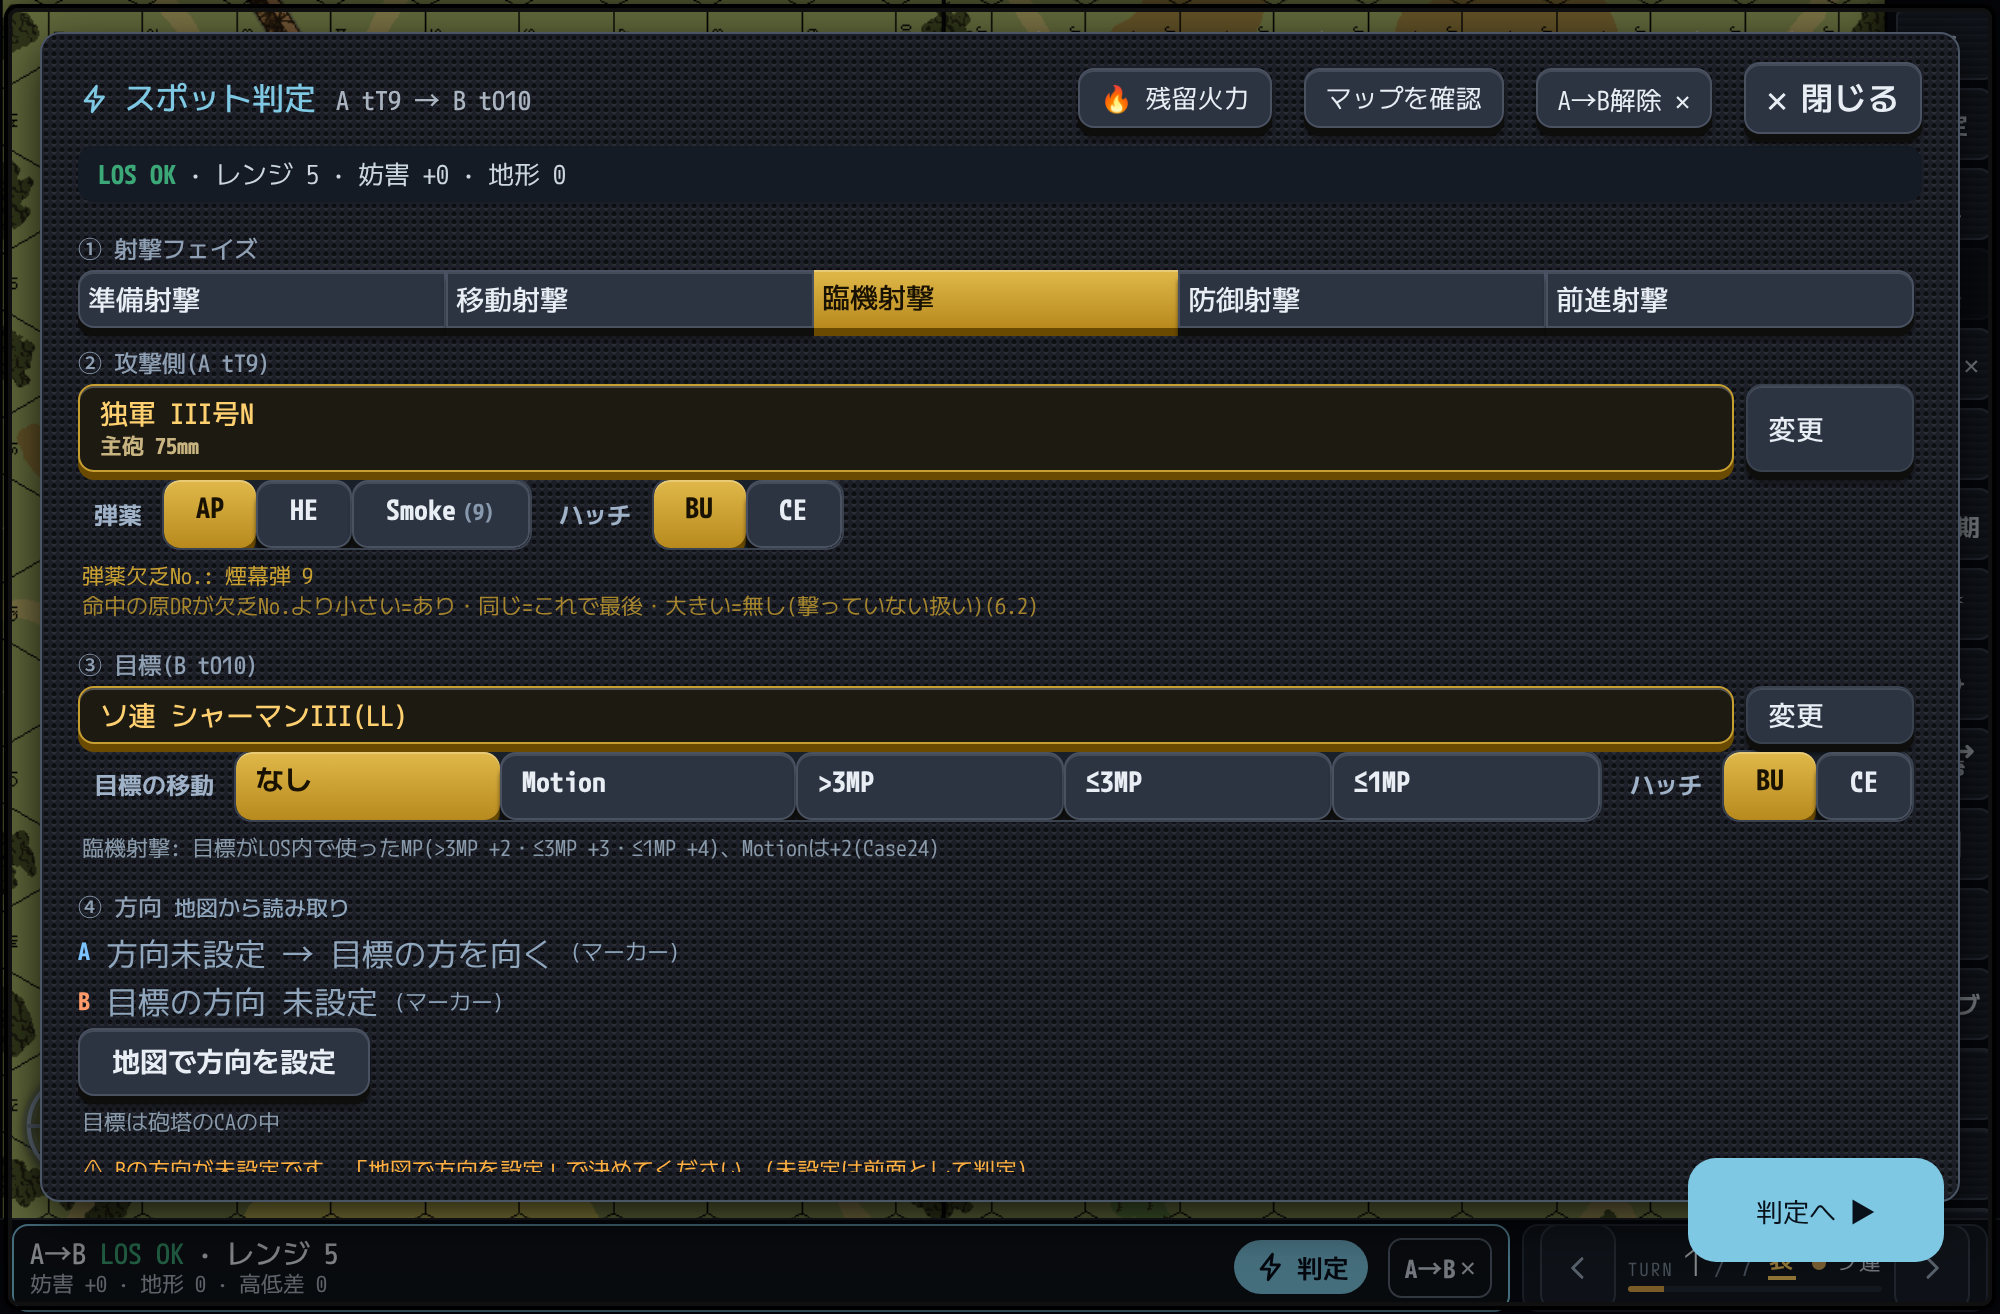
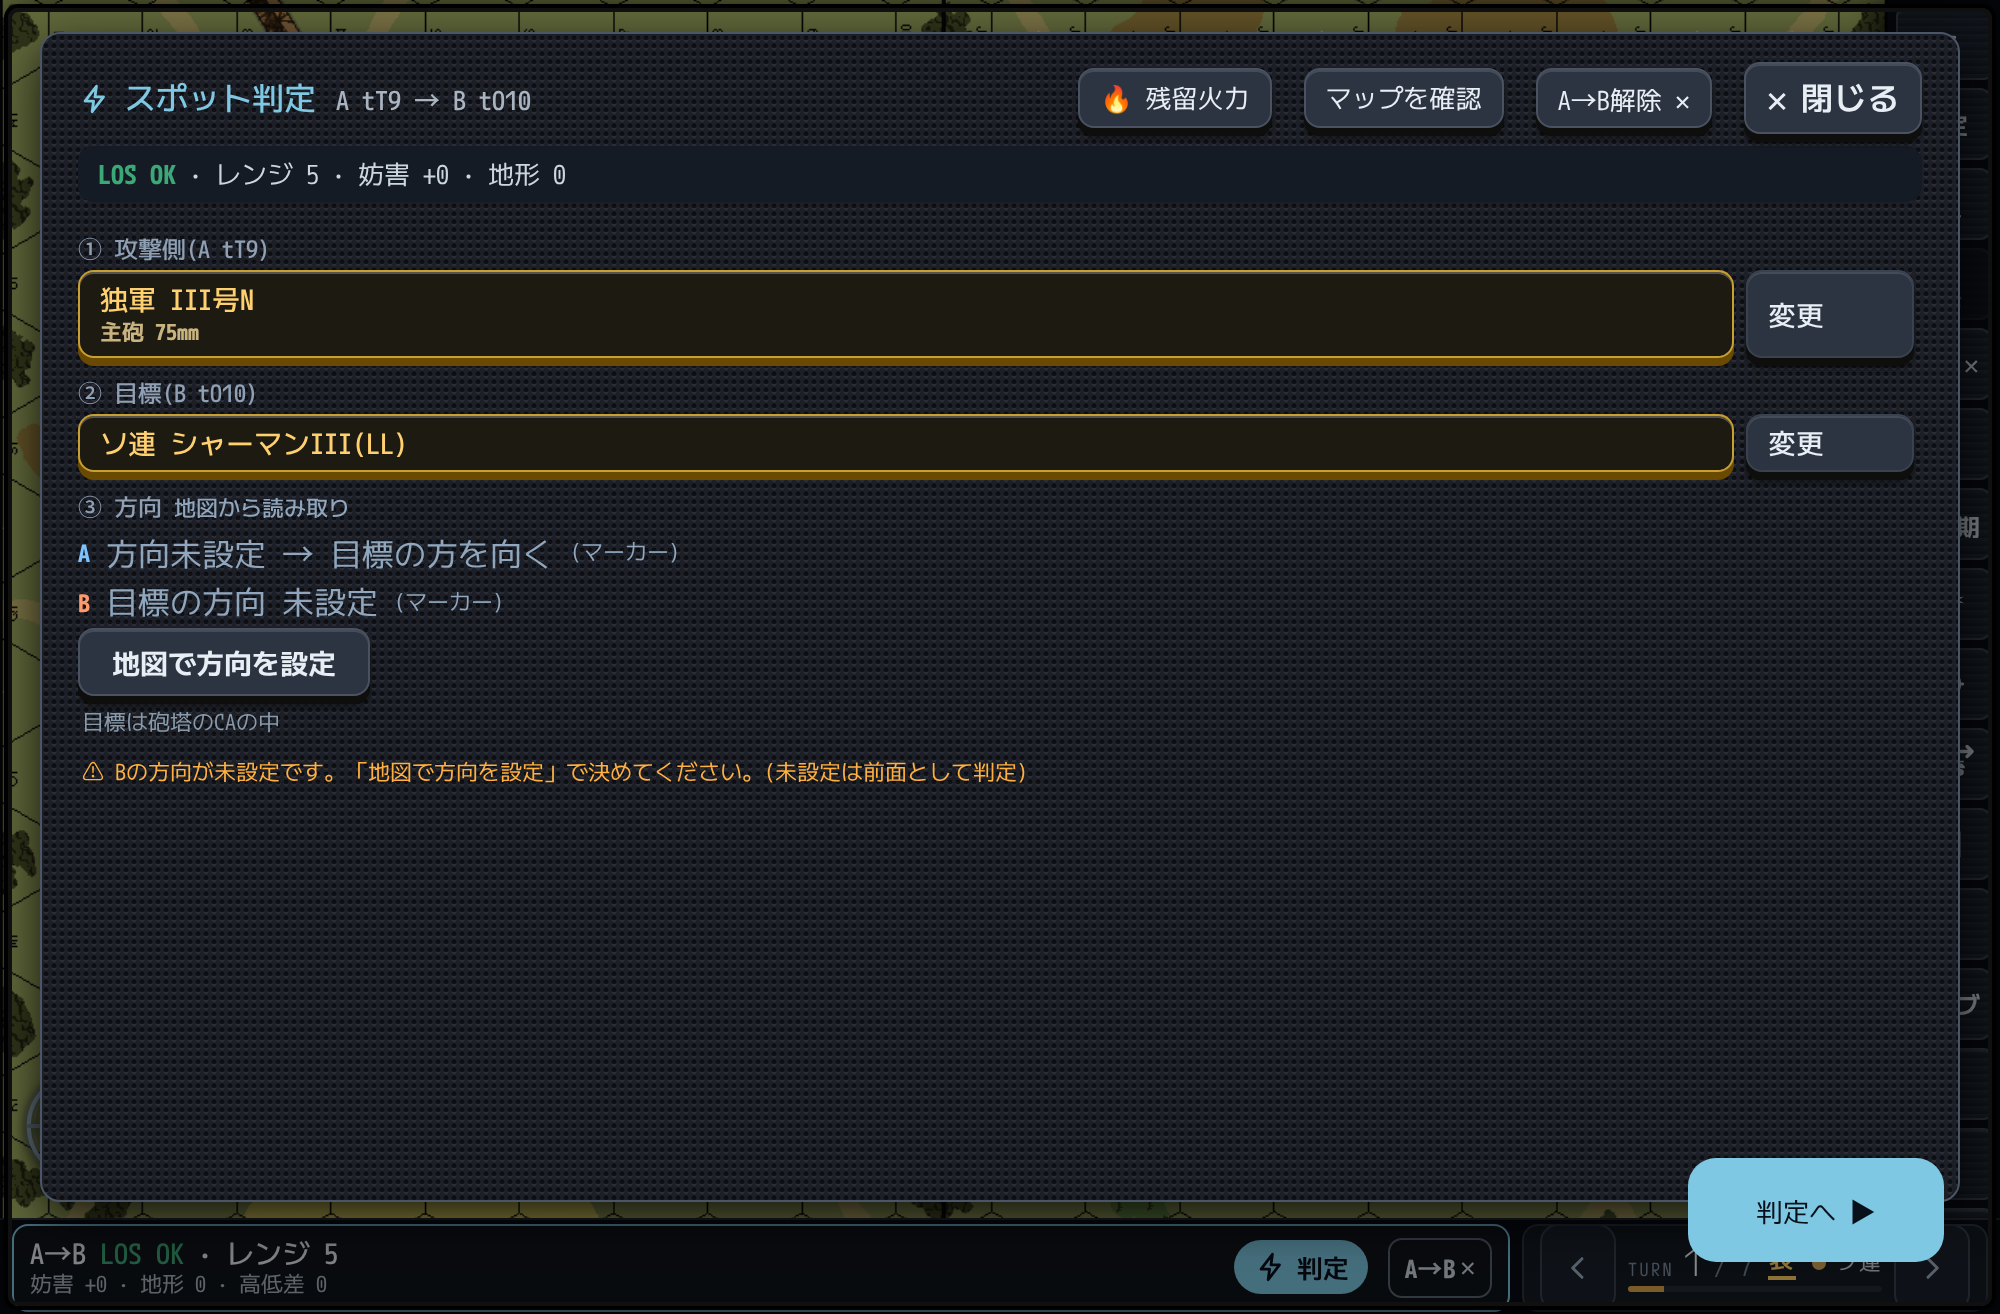
sample-spl2: 設定画面から重複(フェイズ・ハッチ・弾薬・目標の移動)を外す
Claude-Session: https://claude.ai/code/session_019kMnQfU7wx5SUokXazrXcg

diff --git a/dev/spl2.js b/dev/spl2.js
@@ -3,9 +3,10 @@ const {chromium}=require('playwright');(async()=>{const b=await chromium.launch(
 await p.goto('file://'+require('path').resolve(__dirname,'../index.html'),{timeout:180000});await p.waitForTimeout(4000);await p.evaluate(()=>NAVTAB('los'));await p.waitForTimeout(1000);
 const r=await p.evaluate(async()=>{const W=ms=>new Promise(r=>setTimeout(r,ms));S.scen=S.scen||{};S.scen.sel='S24';for(var i=0;i<4;i++){try{Draw();}catch(e){}await W(1500);}await btEnsureGraph();var N=BTG.nodes,id=nm=>N.findIndex(n=>n.nm===nm);var o=[];
 try{try{nmModeSet('judge');}catch(e){}await W(1500);var A=N[id('tT9')],B=N[id('tO10')];var HA=nmHexOfNode(id('tT9')),HT=nmHexOfNode(id('tO10'));var all=[].concat.apply([],nmSuNats().map(k=>nmIjVehs(k)));var av=all.filter(x=>x.kind==='veh'&&/III号N/.test(x.nm))[0],tv=all.filter(x=>x.kind==='veh'&&/シャーマン/.test(x.nm))[0];nmSideList('f').push({boardId:HA.boardId,col:HA.col,row:HA.row,st:{},veh:av.id});nmSideList('e').push({boardId:HT.boardId,col:HT.col,row:HT.row,st:{},veh:tv.id});Draw();await W(500);S_LOS.pxA={x:A.x,y:A.y};S_LOS.pxB={x:B.x,y:B.y};LosRunPixel();await W(4000);nmIjOpen();await W(800);nmIjSet('ph','dff');await W(3000);o.push('ok');}catch(e){o.push(String(e));}return o;});
-const P=process.argv[2];
+const P=process.argv[2];await p.evaluate(()=>{window.__dd=1;});
 // 画像1: 実際のスポット判定の左側(①〜④)。右側と判定ボタンは隠し、「判定へ」だけ足した合成
-await p.evaluate(()=>{var st=document.createElement('style');st.id='hideR';st.textContent='html:root:root:root:root:root:root:root:root:root:root #nmIj#nmIj#nmIj .ijR,html:root:root:root:root:root:root:root:root:root:root #nmIj#nmIj#nmIj .ijFt{display:none!important}';document.head.appendChild(st);var b=document.createElement('button');b.id='mockGo';b.textContent='判定へ  ▶';b.setAttribute('style','position:absolute;right:28px;bottom:26px;height:52px;padding:0 34px;font:800 20px inherit;font-family:inherit;color:#08101a;background:#7ec8e3;border:0;border-radius:14px;z-index:99999');(document.querySelector('#nmIj .ijBox')||document.body).appendChild(b);});
+await p.evaluate(()=>{var st=document.createElement('style');st.id='hideR';st.textContent='html:root:root:root:root:root:root:root:root:root:root #nmIj#nmIj#nmIj .ijR,html:root:root:root:root:root:root:root:root:root:root #nmIj#nmIj#nmIj .ijFt{display:none!important}';document.head.appendChild(st);var b=document.createElement('button');b.id='mockGo';b.textContent='判定へ  ▶';b.setAttribute('style','position:absolute;right:28px;bottom:26px;height:52px;padding:0 34px;font:800 20px inherit;font-family:inherit;color:#08101a;background:#7ec8e3;border:0;border-radius:14px;z-index:99999');(document.querySelector('#nmIj .ijBox')||document.body).appendChild(b);
+ var L=document.querySelector('#nmIj .ijL');if(L&&window.__dd){var sec=0,seen=0;[].slice.call(L.children).forEach(function(c){if(c.classList.contains('ijS')){var m=(c.textContent||'').match(/[①②③④]/);sec=m?'①②③④'.indexOf(m[0])+1:sec;seen=0;if(sec===1)c.style.display='none';else{c.innerHTML=c.innerHTML.replace('②','①').replace('③','②').replace('④','③');}return;}if(sec===1){c.style.display='none';return;}if(sec===2||sec===3){seen++;if(seen>1)c.style.display='none';}});}});
 await p.waitForTimeout(600);console.log(await p.evaluate(()=>{var r=document.querySelector('#nmIj .ijR');return r?getComputedStyle(r).display+' '+(document.getElementById('hideR')?'style':'nostyle'):'noR';}));await p.screenshot({path:P+'_1.png'});
 // 画像2: 同じ A→B で開く実際の共通判定パネル(#btRm)
 await p.evaluate(()=>{var m=document.getElementById('mockGo');if(m)m.remove();var h=document.getElementById('hideR');if(h)h.remove();try{nmIjNvLegacy();}catch(e){console.log('legacy',e);}});
